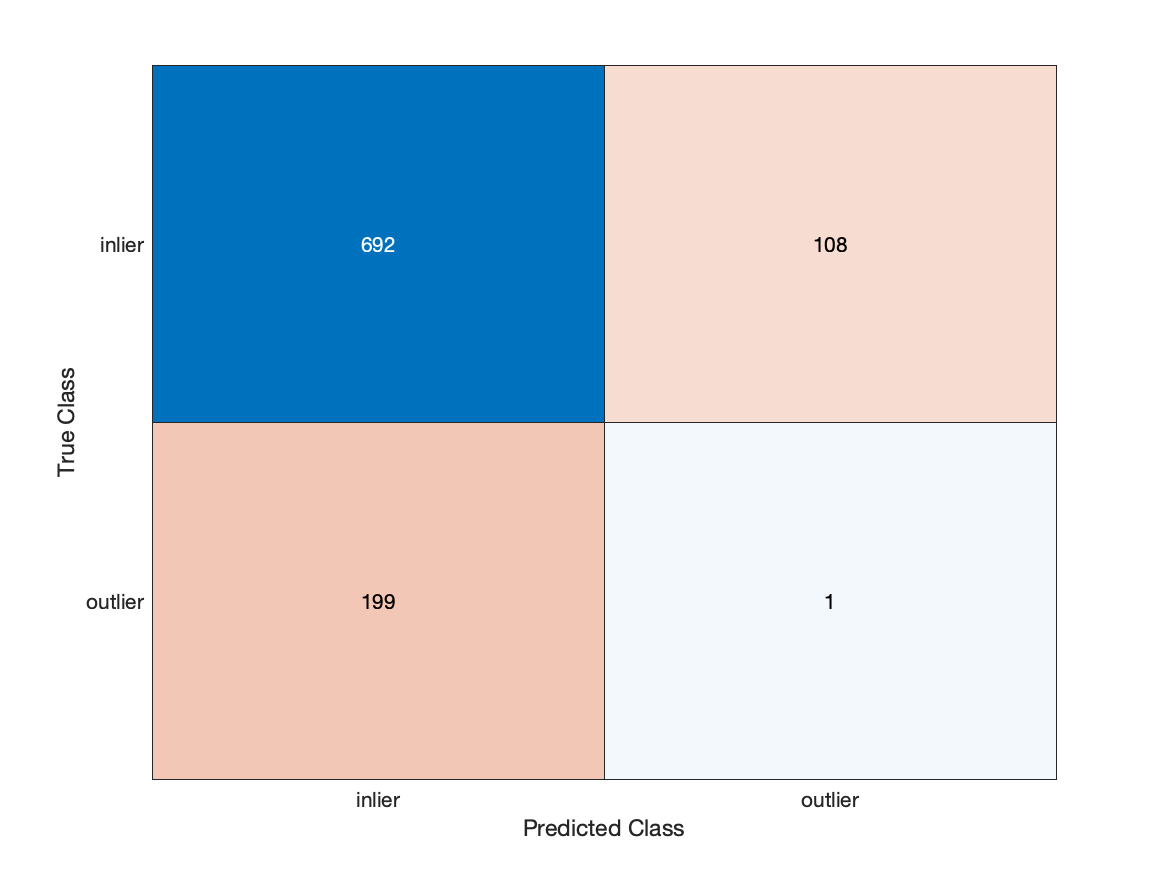
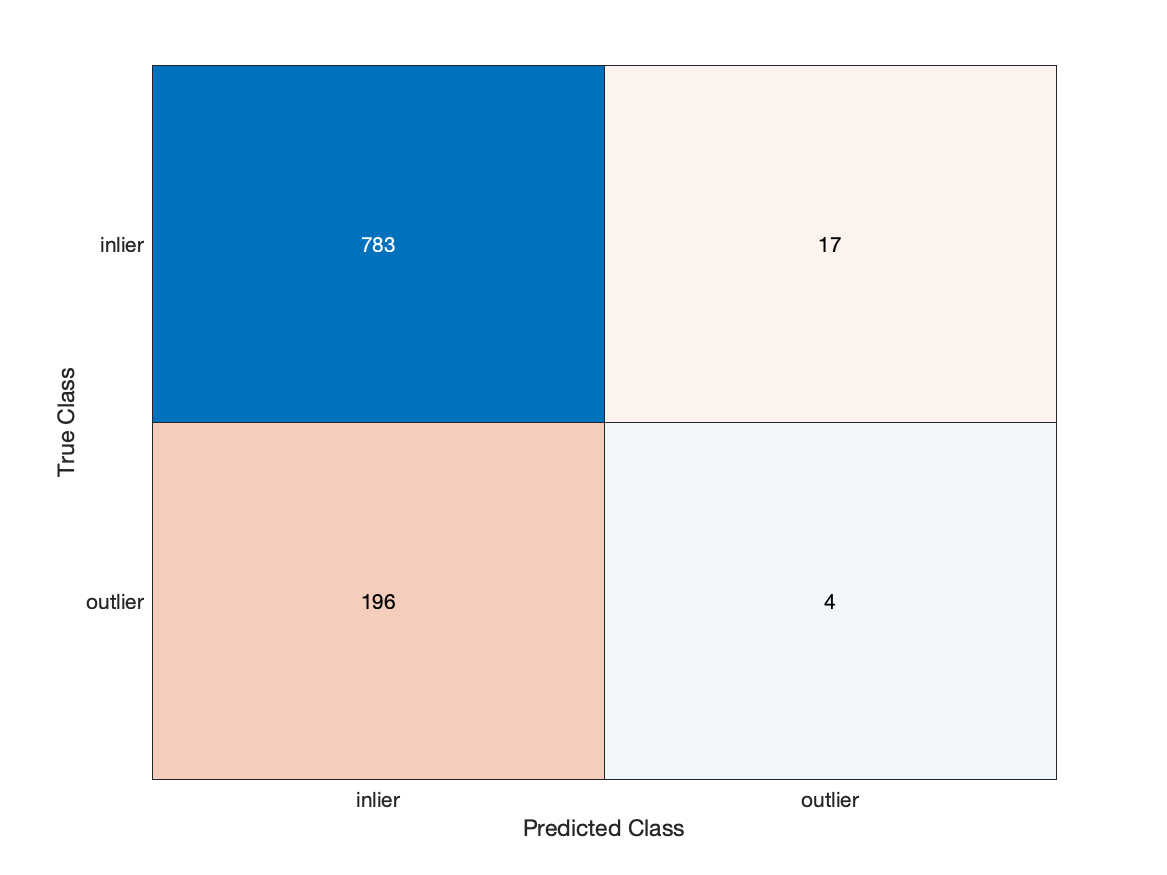
rerun other models

Changed region(s): [[0.4936, 0.0617, 0.9254, 0.4937], [0.3085, 0.2777, 0.3393, 0.3086]]

diff --git a/thesis/shakespear_trump.m b/thesis/shakespear_trump.m
@@ -9,9 +9,9 @@ rng(1634256, "twister");
 
 projectDir = fileparts(fileparts(which(mfilename)));
 
-modelName = 'all-mpnet-base-v2';
+% modelName = 'all-mpnet-base-v2';
 % modelName = 'bge-large-en-v1.5';
-% modelName = 'all-MiniLM-L6-v2';
+modelName = 'all-MiniLM-L6-v2';
 datasetName = 'shakespear_trump';
 
 imageDir = fullfile(projectDir, 'images', datasetName);
